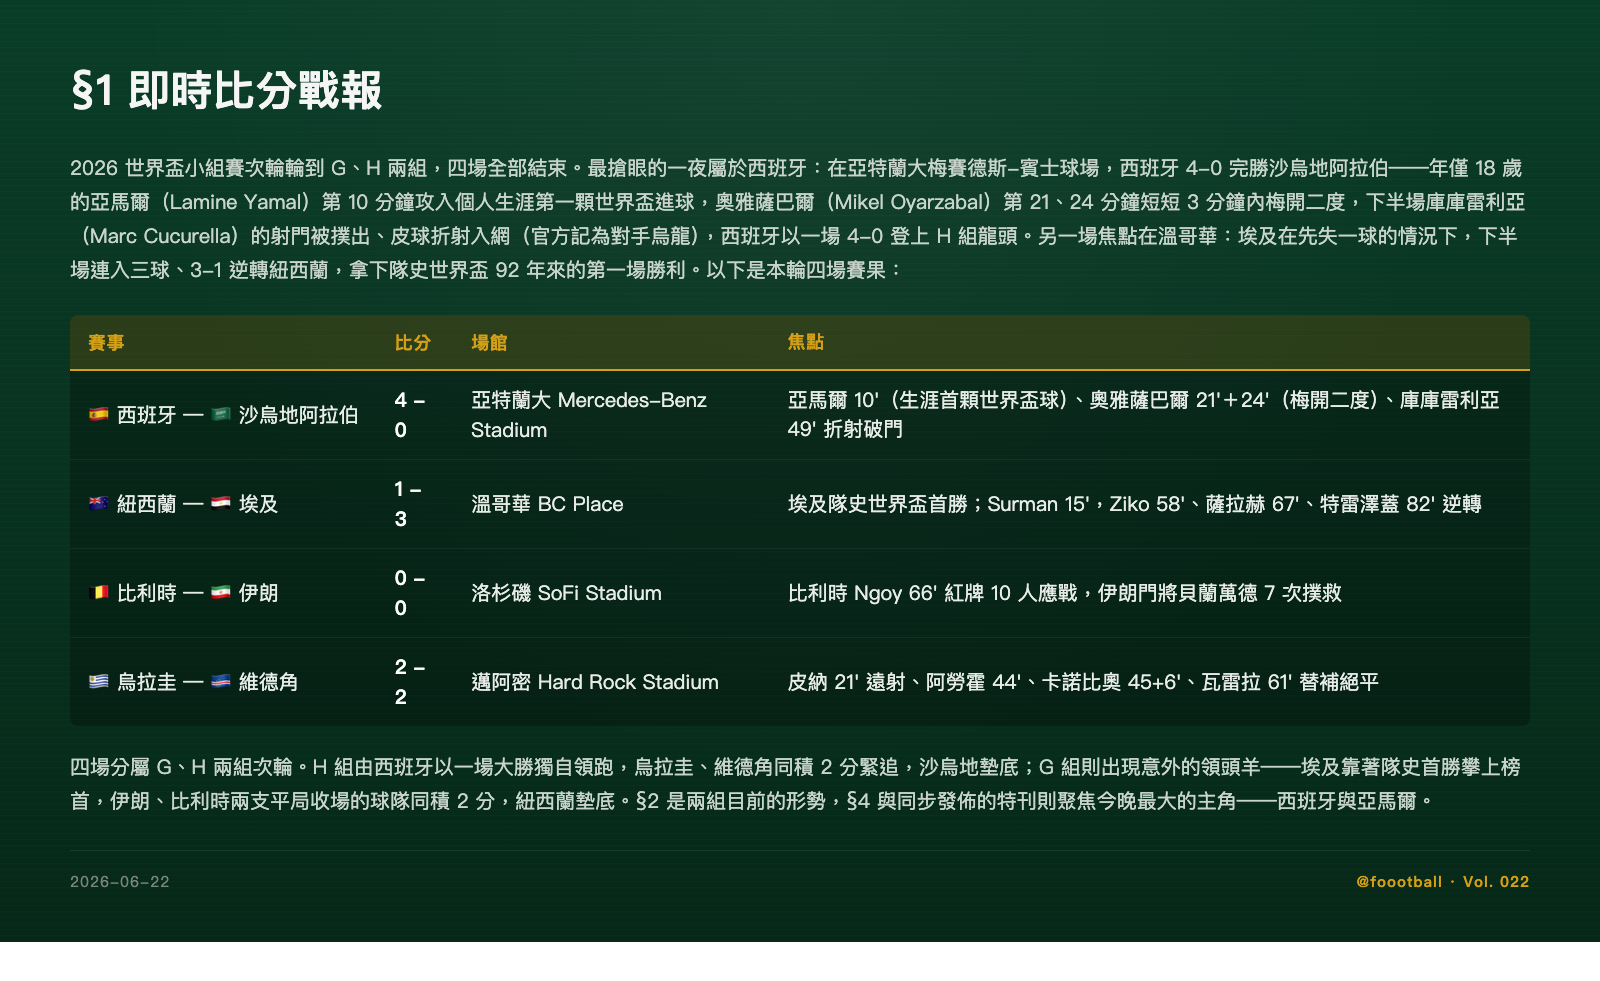
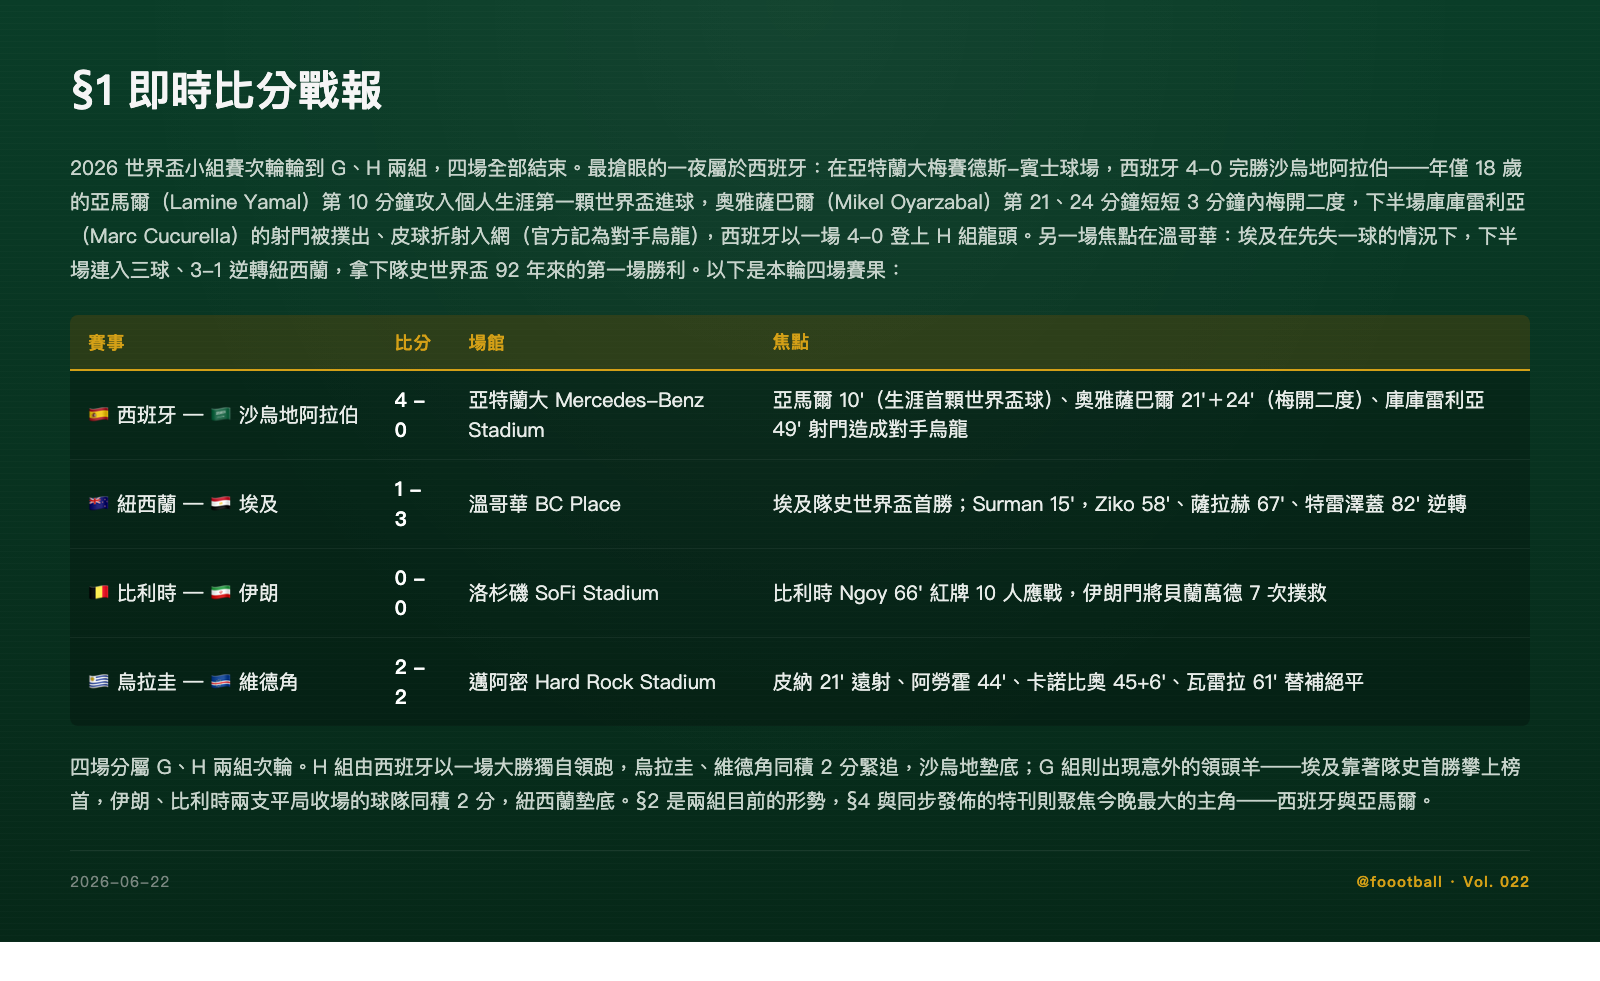
fix(articles): Vol.022 口徑微調 — 第4球表格/特刊與正文官方記錄一致
戰報表格「折射破門」→「射門造成對手烏龍」；特刊 §1「無論記在誰名下」
→「即使官方記為對手烏龍」。對齊 Charlie 最終審稿，與正文官方口徑一致。

diff --git a/public/articles/daily-2026-06-22/index.html b/public/articles/daily-2026-06-22/index.html
@@ -330,7 +330,7 @@ body::before {
 <td>🇪🇸 西班牙 — 🇸🇦 沙烏地阿拉伯</td>
 <td><strong>4 - 0</strong></td>
 <td>亞特蘭大 Mercedes-Benz Stadium</td>
-<td>亞馬爾 10'（生涯首顆世界盃球）、奧雅薩巴爾 21'＋24'（梅開二度）、庫庫雷利亞 49' 折射破門</td>
+<td>亞馬爾 10'（生涯首顆世界盃球）、奧雅薩巴爾 21'＋24'（梅開二度）、庫庫雷利亞 49' 射門造成對手烏龍</td>
 </tr>
 <tr>
 <td>🇳🇿 紐西蘭 — 🇪🇬 埃及</td>

diff --git a/public/articles/worldcup-special-2026-06-22-spain/index.html b/public/articles/worldcup-special-2026-06-22-spain/index.html
@@ -319,7 +319,7 @@ body::before {
 <p><strong>第 10 分鐘，第一球——亞馬爾破門，生涯首顆世界盃進球。</strong> 比賽才開場十分鐘，西班牙就用熟悉的傳控撕開了沙烏地的防線：邊路與中路的連續傳遞把對手陣型扯動，皮球來到右路的亞馬爾腳下，這位 18 歲的邊鋒切入後完成終結，皮球入網，1-0。對亞馬爾而言，這是他披上西班牙戰袍以來的第一顆世界盃進球——一個早就被全世界期待、如今終於兌現的時刻。這顆球也讓西班牙在最需要破悶的開場階段就卸下了壓力。</p>
 <p><strong>第 21 分鐘，第二球——奧雅薩巴爾首開個人帳戶。</strong> 領先後的西班牙踢得更從容。第 21 分鐘，西班牙再度由團隊配合創造機會，奧雅薩巴爾（Mikel Oyarzabal）在禁區內捕捉到機會、冷靜推射入網，2-0。</p>
 <p><strong>第 24 分鐘，第三球——奧雅薩巴爾梅開二度，3 分鐘內再進一球。</strong> 僅僅三分鐘後，奧雅薩巴爾再度出現在正確的位置上，完成個人的梅開二度，把比分改寫為 3-0。短短 3 分鐘內的兩記進球，把比賽從 1-0 一口氣推到 3-0、幾乎在半場前就替西班牙把勝負懸念抹平——這比任何細項紀錄，都更能說明他的終結效率。</p>
-<p><strong>第 49 分鐘，第四球——庫庫雷利亞製造，西班牙鎖定大勝。</strong> 下半場一開始，西班牙的壓制就再添戰果：第 49 分鐘，庫庫雷利亞（Marc Cucurella）在一次角球進攻後起腳射門，皮球被沙烏地門將撲出後、回彈折射入網（官方記為對手坦巴克蒂的烏龍），4-0。無論記在誰名下，這顆球都是西班牙持續施壓、把對方逼到極限的必然結果。</p>
+<p><strong>第 49 分鐘，第四球——庫庫雷利亞製造，西班牙鎖定大勝。</strong> 下半場一開始，西班牙的壓制就再添戰果：第 49 分鐘，庫庫雷利亞（Marc Cucurella）在一次角球進攻後起腳射門，皮球被沙烏地門將撲出後、回彈折射入網（官方記為對手坦巴克蒂的烏龍），4-0。即使官方記為對手烏龍，這顆球仍來自西班牙持續施壓、把對方逼到極限的進攻回合。</p>
 <p>一記少年的首球、一對 3 分鐘內的梅開二度、一記持續壓迫換來的進球，四顆球串起來，幾乎是一張「傳控強隊如何處理防守型對手」的範本：早進球、控節奏、在上半場就把比賽解決。</p>
 <h2>二、亞馬爾：第一顆世界盃進球的份量</h2>
 <p>把鏡頭拉近到亞馬爾，會發現這顆球的意義，遠不只是 1-0。</p>

diff --git a/articles/daily-2026-06-22/index.md b/articles/daily-2026-06-22/index.md
@@ -20,7 +20,7 @@ lede: "2026 世界盃 H 組次輪，西班牙在亞特蘭大 4-0 完勝沙烏地
 
 | 賽事 | 比分 | 場館 | 焦點 |
 |---|---|---|---|
-| 🇪🇸 西班牙 — 🇸🇦 沙烏地阿拉伯 | **4 - 0** | 亞特蘭大 Mercedes-Benz Stadium | 亞馬爾 10'（生涯首顆世界盃球）、奧雅薩巴爾 21'＋24'（梅開二度）、庫庫雷利亞 49' 折射破門 |
+| 🇪🇸 西班牙 — 🇸🇦 沙烏地阿拉伯 | **4 - 0** | 亞特蘭大 Mercedes-Benz Stadium | 亞馬爾 10'（生涯首顆世界盃球）、奧雅薩巴爾 21'＋24'（梅開二度）、庫庫雷利亞 49' 射門造成對手烏龍 |
 | 🇳🇿 紐西蘭 — 🇪🇬 埃及 | **1 - 3** | 溫哥華 BC Place | 埃及隊史世界盃首勝；Surman 15'，Ziko 58'、薩拉赫 67'、特雷澤蓋 82' 逆轉 |
 | 🇧🇪 比利時 — 🇮🇷 伊朗 | **0 - 0** | 洛杉磯 SoFi Stadium | 比利時 Ngoy 66' 紅牌 10 人應戰，伊朗門將貝蘭萬德 7 次撲救 |
 | 🇺🇾 烏拉圭 — 🇨🇻 維德角 | **2 - 2** | 邁阿密 Hard Rock Stadium | 皮納 21' 遠射、阿勞霍 44'、卡諾比奧 45+6'、瓦雷拉 61' 替補絕平 |

diff --git a/articles/worldcup-special-2026-06-22-spain/index.md b/articles/worldcup-special-2026-06-22-spain/index.md
@@ -28,7 +28,7 @@ lede: "2026 世界盃 H 組次輪，西班牙在亞特蘭大 4-0 完勝沙烏地
 
 **第 24 分鐘，第三球——奧雅薩巴爾梅開二度，3 分鐘內再進一球。** 僅僅三分鐘後，奧雅薩巴爾再度出現在正確的位置上，完成個人的梅開二度，把比分改寫為 3-0。短短 3 分鐘內的兩記進球，把比賽從 1-0 一口氣推到 3-0、幾乎在半場前就替西班牙把勝負懸念抹平——這比任何細項紀錄，都更能說明他的終結效率。
 
-**第 49 分鐘，第四球——庫庫雷利亞製造，西班牙鎖定大勝。** 下半場一開始，西班牙的壓制就再添戰果：第 49 分鐘，庫庫雷利亞（Marc Cucurella）在一次角球進攻後起腳射門，皮球被沙烏地門將撲出後、回彈折射入網（官方記為對手坦巴克蒂的烏龍），4-0。無論記在誰名下，這顆球都是西班牙持續施壓、把對方逼到極限的必然結果。
+**第 49 分鐘，第四球——庫庫雷利亞製造，西班牙鎖定大勝。** 下半場一開始，西班牙的壓制就再添戰果：第 49 分鐘，庫庫雷利亞（Marc Cucurella）在一次角球進攻後起腳射門，皮球被沙烏地門將撲出後、回彈折射入網（官方記為對手坦巴克蒂的烏龍），4-0。即使官方記為對手烏龍，這顆球仍來自西班牙持續施壓、把對方逼到極限的進攻回合。
 
 一記少年的首球、一對 3 分鐘內的梅開二度、一記持續壓迫換來的進球，四顆球串起來，幾乎是一張「傳控強隊如何處理防守型對手」的範本：早進球、控節奏、在上半場就把比賽解決。
 